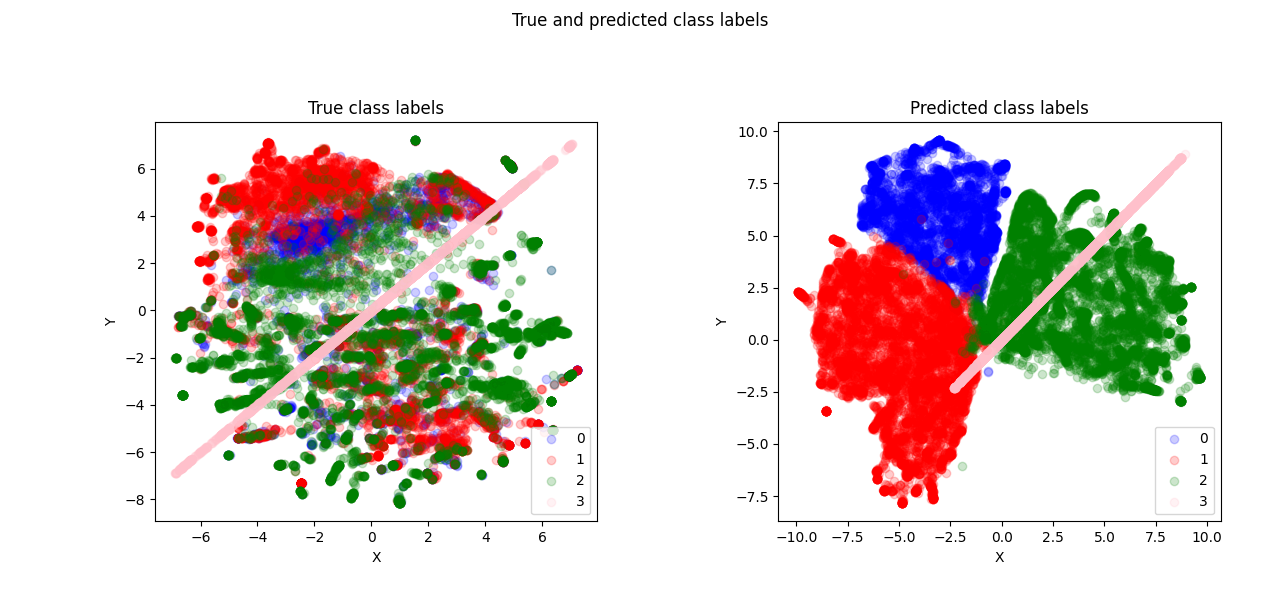
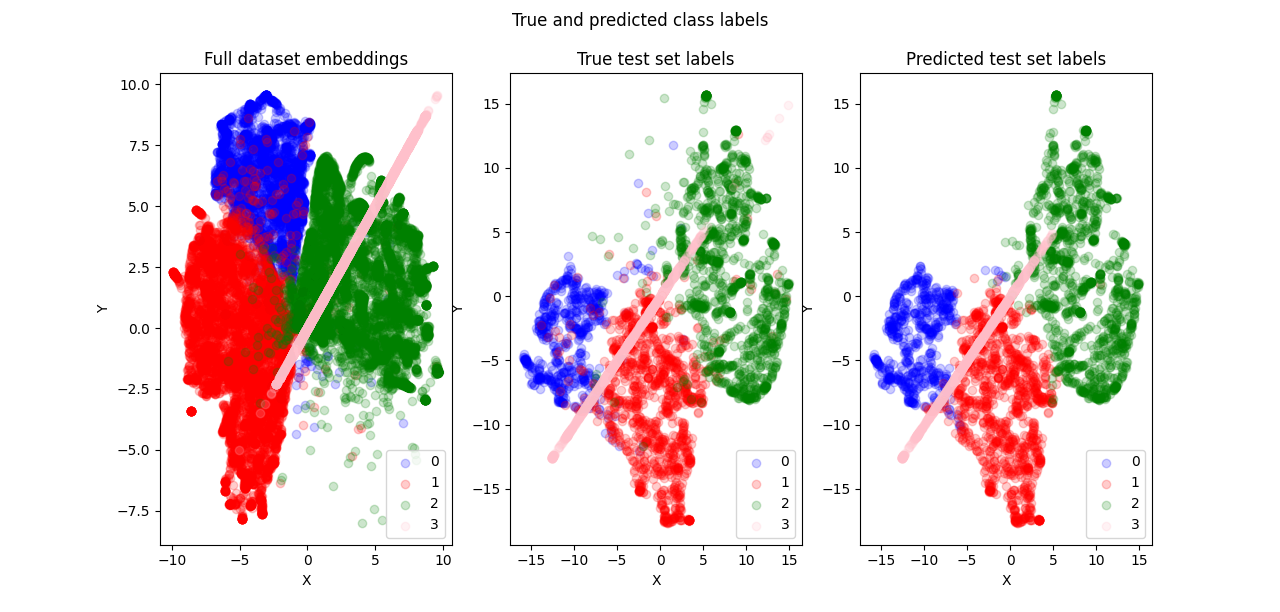
Modified the graphing process in predict.py to produce the desired plots as opposed to incorrect ones which it was doing previously.

diff --git a/recognition/facebook-classification-s46406619/predict.py b/recognition/facebook-classification-s46406619/predict.py
@@ -14,7 +14,8 @@ embs, pred = model(data.X, data.edges) # forward pass
 y_pred = pred[data.test_split].argmax(dim=1)
 
 # print test accuracy
-acc = model.accuracy(data.y[data.test_split], y_pred)
+true = data.y[data.test_split]
+acc = model.accuracy(true, y_pred)
 print('test accuracy:', round(acc.item(), 4))
 pred = pred.argmax(dim=1)
 
@@ -23,28 +24,28 @@ import matplotlib.pyplot as plt
 
 # produce a 2D embeddings plot via t-SNE
 tsne = TSNE(random_state=1, n_iter=300, metric="cosine")
-embs_pred = tsne.fit_transform(embs.detach().numpy())
-embs_true = tsne.fit_transform(data.X)
+embs_full = tsne.fit_transform(embs.detach().numpy())
+X = embs_full[:, 0]
+Y = embs_full[:, 1]
 
-# extract embeddings
-X_pred = embs_pred[:, 0]
-X_true = embs_true[:, 0]
-Y_pred = embs_pred[:, 1]
-Y_true = embs_true[:, 1]
+# only the test set
+embs_test = tsne.fit_transform(embs.detach().numpy()[data.test_split])
+X_test = embs_test[:, 0]
+Y_test = embs_test[:, 1]
 
 # helper function to split embeddings by class label
-def split_by_classification(X, Y):
+def split_by_classification(X, Y, label):
     x1, x2, x3, x4 = [], [], [], []
     y1, y2, y3, y4 = [], [], [], []
 
     for i in range(len(X)):
-        if pred[i] == 0:
+        if label[i] == 0:
             x1.append(X[i])
             y1.append(Y[i])
-        elif pred[i] == 1:
+        elif label[i] == 1:
             x2.append(X[i])
             y2.append(Y[i])
-        elif pred[i] == 2:
+        elif label[i] == 2:
             x3.append(X[i])
             y3.append(Y[i])
         else:
@@ -54,30 +55,40 @@ def split_by_classification(X, Y):
     return x1, x2, x3, x4, y1, y2, y3, y4
 
 # seperate embeddings by classification
-(x1_pred, x2_pred, x3_pred, x4_pred, 
- y1_pred, y2_pred, y3_pred, y4_pred) = split_by_classification(X_pred, Y_pred)
+(x1_full, x2_full, x3_full, x4_full, 
+ y1_full, y2_full, y3_full, y4_full) = split_by_classification(X, Y, data.y)
 (x1_true, x2_true, x3_true, x4_true,
- y1_true, y2_true, y3_true, y4_true) = split_by_classification(X_true, Y_true)
+ y1_true, y2_true, y3_true, y4_true) = split_by_classification(X_test, Y_test, true)
+(x1_pred, x2_pred, x3_pred, x4_pred, 
+ y1_pred, y2_pred, y3_pred, y4_pred) = split_by_classification(X_test, Y_test, y_pred)
 
-# plot true class labels
-fig, (ax0, ax1) = plt.subplots(1, 2)
-ax0.scatter(x1_true, y1_true, alpha=.2, c='blue', label='0')
-ax0.scatter(x2_true, y2_true, alpha=.2, c='red', label='1')
-ax0.scatter(x3_true, y3_true, alpha=.2, c='green', label='2')
-ax0.scatter(x4_true, y4_true, alpha=.2, c='pink', label='3')
-ax0.set_title('True class labels')
+# plot full embeddings
+fig, (ax0, ax1, ax2) = plt.subplots(1, 3)
+ax0.scatter(x1_full, y1_full, alpha=.2, c='blue', label='0')
+ax0.scatter(x2_full, y2_full, alpha=.2, c='red', label='1')
+ax0.scatter(x3_full, y3_full, alpha=.2, c='green', label='2')
+ax0.scatter(x4_full, y4_full, alpha=.2, c='pink', label='3')
+ax0.set_title('Full dataset embeddings')
 ax0.set(xlabel='X', ylabel='Y')
 ax0.legend(loc='lower right')
 
-# plot predicted class labels
-ax1.scatter(x1_pred, y1_pred, alpha=.2, c='blue', label='0')
-ax1.scatter(x2_pred, y2_pred, alpha=.2, c='red', label='1')
-ax1.scatter(x3_pred, y3_pred, alpha=.2, c='green', label='2')
-ax1.scatter(x4_pred, y4_pred, alpha=.2, c='pink', label='3')
-ax1.set_title('Predicted class labels')
+# plot true test set labels
+ax1.scatter(x1_true, y1_true, alpha=.2, c='blue', label='0')
+ax1.scatter(x2_true, y2_true, alpha=.2, c='red', label='1')
+ax1.scatter(x3_true, y3_true, alpha=.2, c='green', label='2')
+ax1.scatter(x4_true, y4_true, alpha=.2, c='pink', label='3')
+ax1.set_title('True test set labels')
 ax1.set(xlabel='X', ylabel='Y')
 ax1.legend(loc='lower right')
 
+# plot predicted test set labels
+ax2.scatter(x1_pred, y1_pred, alpha=.2, c='blue', label='0')
+ax2.scatter(x2_pred, y2_pred, alpha=.2, c='red', label='1')
+ax2.scatter(x3_pred, y3_pred, alpha=.2, c='green', label='2')
+ax2.scatter(x4_pred, y4_pred, alpha=.2, c='pink', label='3')
+ax2.set_title('Predicted test set labels')
+ax2.set(xlabel='X', ylabel='Y')
+ax2.legend(loc='lower right')
+
 fig.suptitle('True and predicted class labels')
-fig.tight_layout(pad=2)
 plt.show()

diff --git a/recognition/facebook-classification-s46406619/README.md b/recognition/facebook-classification-s46406619/README.md
@@ -7,11 +7,13 @@ We use a multi-layer graph-covolutional network (GCN) to classify the Facebook L
 
 ## Results
 
-See below a graph of the model's training accuracy and loss over 100 epochs.
+See below a graph of the model's steady training accuracy and loss over 100 epochs.
 
-![Training](images/training.png?raw=true "Training accuracy and loss")
+![training](images/training.png?raw=true)
 
-With the setup as described above, the model achieved an impressive accuracy of 95.25% on the test set. 
+The model completed training after 100 epochs with a 96.79% accuracy on the training set. Moreover, the model achieved an accuracy of 95.25% on the test set. Thus, overfitting was avoided.
+
+
 
 
 ## Preprocessing
